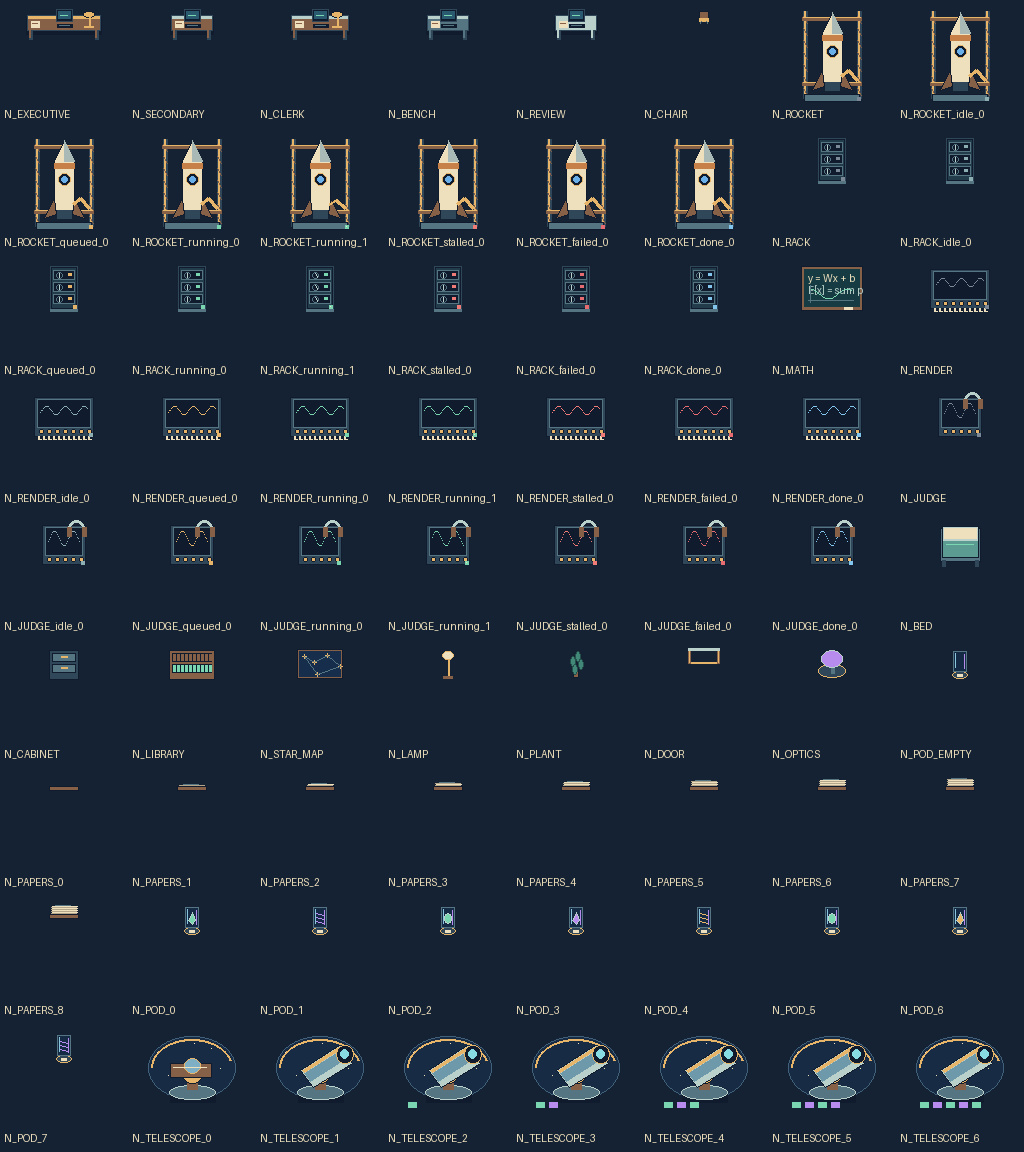
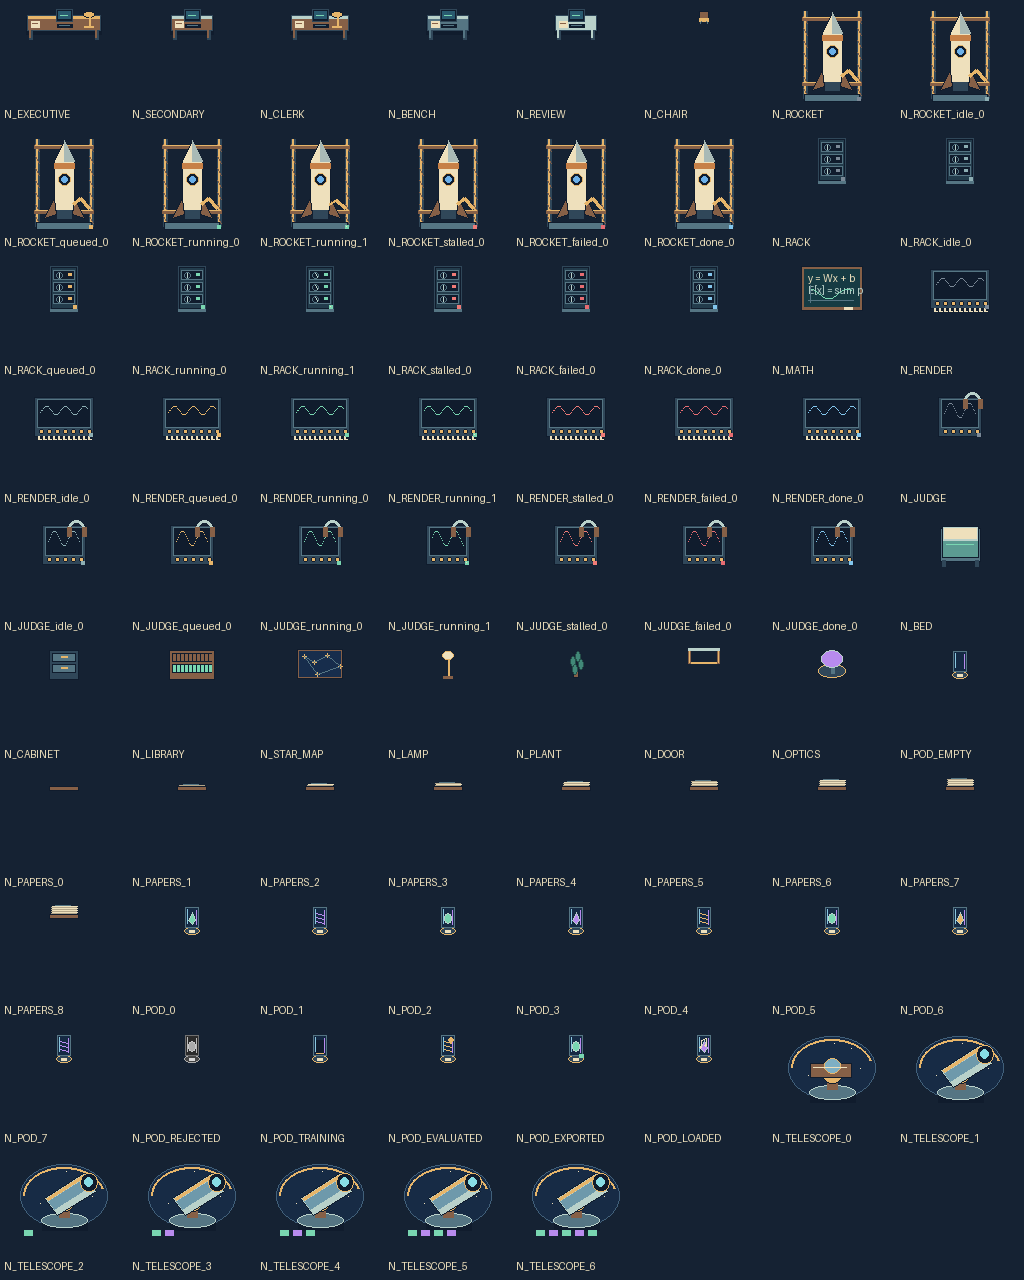
fix(hq): project model identity and states through safe sprite variants

diff --git a/src/ui/PixelOfficeCanvas.tsx b/src/ui/PixelOfficeCanvas.tsx
@@ -7,12 +7,13 @@ import {loadPixelAssets} from './pixelAssets.js';
 import {renderNebulaTelemetry,type NebulaTelemetry} from '../office/observatory/nebulaOverlay.js';
 import {ROOMS,ROLE_SEATS,type NebulaRoom,type NebulaCamera,type NebulaBounds} from '../office/layout/nebulaLayouts.js';
 import {WorldCamera} from '../office/observatory/camera.js';
+import {furnitureProjection} from '../office/observatory/sceneProjection.js';
 import {DemoWalks} from '../office/observatory/demoWalks.js';
 import {getCatalogEntry} from '../office/layout/furnitureCatalog.js';
 export {ROOMS,ROLE_SEATS};
 export type {NebulaRoom,NebulaCamera};
 export type CameraAgent={id:string;name:string;role?:string;seatId?:string;status?:string|null;activityKind?:'coding'|'research'|'writing'|'meeting'|'idle';characterIndex?:number;room?:NebulaRoom};
-export type WorldSelection={kind:'room'|'agent'|'furniture';id:string;name:string;room?:NebulaRoom};
+export type WorldSelection={kind:'room'|'agent'|'furniture'|'model';id:string;name:string;room?:NebulaRoom};
 export type SceneHandle={fit:()=>void;focus:(room:NebulaRoom)=>void;follow:(id:string|null)=>void;inspect:()=>unknown};
 export type PixelOfficeCanvasProps={agents:CameraAgent[];camera:'office'|'boardroomKitchen'|'overflowOffice'|NebulaCamera;seedSeated?:boolean;telemetry?:NebulaTelemetry;onSelect?:(selection:WorldSelection)=>void;onReady?:(handle:SceneHandle)=>void;reducedMotion?:boolean};
 export function stableNumericId(id:string){let hash=0;for(let i=0;i<id.length;i++)hash=(hash*31+id.charCodeAt(i))|0;return Math.abs(hash)||1;}
@@ -123,19 +124,8 @@ export function PixelOfficeCanvas(props:PixelOfficeCanvasProps){
       office.update(dt);
       artClock+=dt;
       if(Math.floor(artClock*4)!==artFrame){
-        artFrame=Math.floor(artClock*4);const types=new Map<string,string>();
-        const frame=p.reducedMotion?0:artFrame%2;
-        const variant=(base:string,key:'training'|'render'|'ci'|'evaluation')=>{
-          const state=p.telemetry?.sources.jobs?p.telemetry.jobs[key]?.state??'unknown':'unknown';
-          const id=state==='unknown'?base:`${base}_${state}_${state==='running'?frame:0}`;
-          return getCatalogEntry(id)?id:base;
-        };
-        types.set('rocket-gantry',variant('N_ROCKET','ci'));types.set('render-rack',variant('N_RENDER','render'));types.set('audio-judge',variant('N_JUDGE','evaluation'));
-        for(let i=0;i<4;i++)types.set(`gpu-${i}`,variant('N_RACK','training'));
-        const stage=Math.max(0,Math.min(6,p.telemetry?.stage??0));types.set('telescope-foundation',`N_TELESCOPE_${stage}`);
-        for(let i=0;i<8;i++)types.set(`pod-${i}`,i<(p.telemetry?.modelCount??0)?`N_POD_${i}`:'N_POD_EMPTY');
-        for(const key of ['upcoming','in_progress','review','blocked'] as const){const count=p.telemetry?.sources.paperclip?p.telemetry.queue[key]??0:0;types.set(`queue-${key}`,`N_PAPERS_${Math.min(8,Math.max(0,count))}`);}
-        if(nebulaMode)office.setFurnitureVisuals(types);
+        artFrame=Math.floor(artClock*4);
+        if(nebulaMode)office.setFurnitureVisuals(furnitureProjection(p.telemetry,p.reducedMotion?0:artFrame%2));
       }
     },render:ctx=>{
       const now=performance.now();frames.push(now-lastFrame);lastFrame=now;if(frames.length>600)frames.shift();

diff --git a/src/office/observatory/sceneProjection.ts b/src/office/observatory/sceneProjection.ts
@@ -1,0 +1,30 @@
+import type {NebulaTelemetry} from './nebulaOverlay.js';
+const supported=new Set(['idle','queued','running','stalled','failed','done']);
+/** Pure observational projection. Every variant is validated to retain its footprint. */
+export function furnitureProjection(data:NebulaTelemetry|undefined,frame:number):Map<string,string>{
+ const types=new Map<string,string>();
+ const machine=(base:string,key:'training'|'render'|'ci'|'evaluation')=>{
+  const state=data?.sources.jobs?data.jobs[key]?.state??'unknown':'unknown';
+  return supported.has(state)?`${base}_${state}_${state==='running'?frame:0}`:base;
+ };
+ types.set('rocket-gantry',machine('N_ROCKET','ci'));
+ types.set('render-rack',machine('N_RENDER','render'));
+ types.set('audio-judge',machine('N_JUDGE','evaluation'));
+ for(let i=0;i<4;i++)types.set(`gpu-${i}`,machine('N_RACK','training'));
+ types.set('telescope-foundation',`N_TELESCOPE_${Math.max(0,Math.min(6,Math.floor(data?.stage??0)))}`);
+ for(let i=0;i<8;i++){
+  const pod=data?.modelPods?.[i];let type='N_POD_EMPTY';
+  if(pod){
+   const special:Record<string,string>={rejected:'REJECTED',failed:'REJECTED',training:'TRAINING',evaluated:'EVALUATED',exported:'EXPORTED',plugin_loaded:'LOADED'};
+   let hash=0;for(const c of pod.id)hash=(hash*31+c.charCodeAt(0))>>>0;
+   if(special[pod.state])type=`N_POD_${special[pod.state]}`;
+   else if(['trained','checkpointed'].includes(pod.state))type=`N_POD_${hash%8}`;
+  }
+  types.set(`pod-${i}`,type);
+ }
+ for(const key of ['upcoming','in_progress','review','blocked'] as const){
+  const count=data?.sources.paperclip?data.queue[key]??0:0;
+  types.set(`queue-${key}`,`N_PAPERS_${Math.min(8,Math.max(0,Math.floor(count)))}`);
+ }
+ return types;
+}

diff --git a/src/office/observatory/nebulaOverlay.ts b/src/office/observatory/nebulaOverlay.ts
@@ -1,7 +1,7 @@
 import {TILE_SIZE} from '../types.js';
 import {ROOMS,type NebulaCameraBounds} from '../layout/nebulaLayouts.js';
 export type ReadOnlyJob={state:string;ticket?:string;progress?:number|null;machine?:string};
-export type NebulaTelemetry={mode:'demo'|'live'|'unconfigured';jobs:Partial<Record<'training'|'render'|'ci'|'evaluation',ReadOnlyJob>>;queue:{upcoming:number|null;in_progress:number|null;review:number|null;blocked?:number|null};sources:{paperclip:boolean;jobs:boolean};stage?:number|null;modelCount?:number|null;renderCount?:number|null};
+export type NebulaTelemetry={mode:'demo'|'live'|'unconfigured';jobs:Partial<Record<'training'|'render'|'ci'|'evaluation',ReadOnlyJob>>;queue:{upcoming:number|null;in_progress:number|null;review:number|null;blocked?:number|null};sources:{paperclip:boolean;jobs:boolean};stage?:number|null;modelCount?:number|null;modelPods?:Array<{id:string;state:string}>;renderCount?:number|null};
 const shades:Record<string,string>={running:'#79d6b1',queued:'#e6b56a',done:'#6bafe8',failed:'#f07b77',stalled:'#f07b77',unknown:'#87939f'};
 export function renderNebulaTelemetry(ctx:CanvasRenderingContext2D,_bounds:NebulaCameraBounds,data:NebulaTelemetry|undefined,ox:number,oy:number,zoom:number,now:number){
  ctx.save();ctx.textBaseline='middle';ctx.textAlign='left';ctx.font=`${Math.max(8,5*zoom)}px monospace`;

diff --git a/scripts/draw-nebula-art.py b/scripts/draw-nebula-art.py
@@ -112,6 +112,15 @@ def sprite(kind,w,h,variant=0,state='unknown',frame=0):
   rect(d,(1,1,w-2,h-2),WOOD,INK);rect(d,(3,3,w-4,h-4),'#172d4c');
   for x,y in ((8,8),(18,14),(31,7),(44,18),(21,26)):d.line((x-2,y,x+2,y),fill=GOLD);d.line((x,y-2,x,y+2),fill=GOLD)
   d.line((8,8,18,14,31,7,44,18,21,26,8,8),fill=METAL)
+ if kind=='pod' and variant>=8:
+  if variant==8:
+   for y in range(h):
+    for x in range(w):
+     r,g,b,a=im.getpixel((x,y));gray=(r+g+b)//3;im.putpixel((x,y),(gray,gray,gray,a))
+  elif variant==9:d.rectangle((4,8,w-5,h-12),fill=INK);d.line((4,h-11,w-5,h-11),fill=GOLD)
+  elif variant==10:d.ellipse((w-8,5,w-3,10),fill=GOLD)
+  elif variant==11:rect(d,(w-5,h-10,w-1,h-7),TEAL)
+  elif variant==12:d.line((5,15,5,8,10,6,10,13),fill=PAPER,width=1);d.ellipse((3,14,5,16),fill=PAPER);d.ellipse((8,12,10,14),fill=PAPER)
  # Status beacon is a tiny distinct layer on machines, never a decorative fan.
  if kind in ('rocket','rack','render','judge'):
   rect(d,(w-7,h-7,w-4,h-4),led);d.point((w-6,h-6),fill=PAPER if state=='running' and frame%2 else led)
@@ -149,6 +158,7 @@ add('N_OPTICS','optics',32,32)
 add('N_POD_EMPTY','pod',16,32,variant=-1)
 for i in range(9):add(f'N_PAPERS_{i}','paper',32,16,variant=i)
 for i in range(8):add(f'N_POD_{i}','pod',16,32,variant=i)
+for i,state in enumerate(['REJECTED','TRAINING','EVALUATED','EXPORTED','LOADED']):add('N_POD_'+state,'pod',16,32,variant=8+i)
 for i in range(7):add(f'N_TELESCOPE_{i}','telescope',96,80,variant=i)
 (ROOT/'manifest.json').write_text(json.dumps(dict(id='NEBULA_CAMPUS',name='Original Nebula campus',type='group',category='decor',members=assets),indent=2)+'\n')
 # Contact sheet is an actual export of the registered PNGs, not a mock-up.
